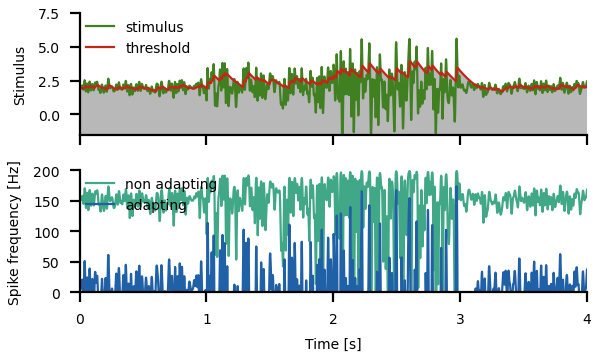
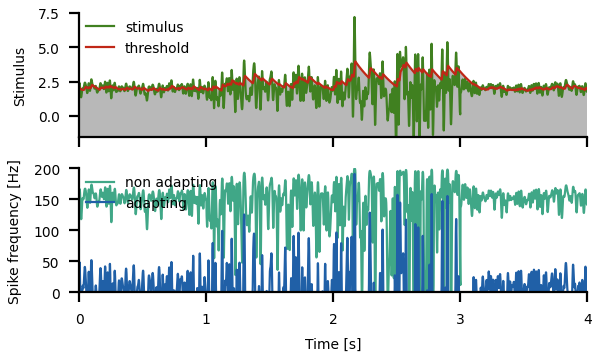
whitenoise() function with non-random amplitude

diff --git a/filter/filter.py b/filter/filter.py
@@ -153,19 +153,20 @@ def whitenoise(cflow, cfup, dt, duration, rng=np.random):
         inx1 = nn/2
     # draw random numbers in Fourier domain:
     whitef = np.zeros((nn//2+1), dtype=complex)
+    # zero and nyquist frequency must be real:
     if inx0 == 0:
-        whitef[0] = rng.randn()
+        whitef[0] = 0
         inx0 = 1
     if inx1 >= nn//2:
-        whitef[nn//2] = rng.randn()
+        whitef[nn//2] = 1
         inx1 = nn//2-1
-    m = inx1 - inx0 + 1
-    whitef[inx0:inx1+1] = rng.randn(m) + 1j*rng.randn(m)
-    # scaling factor to ensure standard deviation of one:
-    sigma = 0.5 / np.sqrt(float(inx1 - inx0))
+    phases = 2*np.pi*rng.rand(inx1 - inx0 + 1)
+    whitef[inx0:inx1+1] = np.cos(phases) + 1j*np.sin(phases)
     # inverse FFT:
-    noise = np.real(np.fft.irfft(whitef))[:n]*sigma*nn
-    return noise
+    noise = np.real(np.fft.irfft(whitef))
+    # scaling factor to ensure standard deviation of one:
+    sigma = nn / np.sqrt(2*float(inx1 - inx0))
+    return noise[:n]*sigma
 
 
 def transfer(stimulus, response, dt, nfft=2**10, maxf=None):

diff --git a/meanvariance/meanvariance.py b/meanvariance/meanvariance.py
@@ -155,19 +155,20 @@ def whitenoise(cflow, cfup, dt, duration, rng=np.random):
         inx1 = nn/2
     # draw random numbers in Fourier domain:
     whitef = np.zeros((nn//2+1), dtype=complex)
+    # zero and nyquist frequency must be real:
     if inx0 == 0:
-        whitef[0] = rng.randn()
+        whitef[0] = 0
         inx0 = 1
     if inx1 >= nn//2:
-        whitef[nn//2] = rng.randn()
+        whitef[nn//2] = 1
         inx1 = nn//2-1
-    m = inx1 - inx0 + 1
-    whitef[inx0:inx1+1] = rng.randn(m) + 1j*rng.randn(m)
-    # scaling factor to ensure standard deviation of one:
-    sigma = 0.5 / np.sqrt(float(inx1 - inx0))
+    phases = 2*np.pi*rng.rand(inx1 - inx0 + 1)
+    whitef[inx0:inx1+1] = np.cos(phases) + 1j*np.sin(phases)
     # inverse FFT:
-    noise = np.real(np.fft.irfft(whitef))[:n]*sigma*nn
-    return noise
+    noise = np.real(np.fft.irfft(whitef))
+    # scaling factor to ensure standard deviation of one:
+    sigma = nn / np.sqrt(2*float(inx1 - inx0))
+    return noise[:n]*sigma
 
 
 def amplitude_modulation(signal, dt, fcutoff):

diff --git a/ambiguities/ambiguities.py b/ambiguities/ambiguities.py
@@ -113,19 +113,20 @@ def whitenoise(cflow, cfup, dt, duration, rng=np.random):
         inx1 = nn/2
     # draw random numbers in Fourier domain:
     whitef = np.zeros((nn//2+1), dtype=complex)
+    # zero and nyquist frequency must be real:
     if inx0 == 0:
-        whitef[0] = rng.randn()
+        whitef[0] = 0
         inx0 = 1
     if inx1 >= nn//2:
-        whitef[nn//2] = rng.randn()
+        whitef[nn//2] = 1
         inx1 = nn//2-1
-    m = inx1 - inx0 + 1
-    whitef[inx0:inx1+1] = rng.randn(m) + 1j*rng.randn(m)
-    # scaling factor to ensure standard deviation of one:
-    sigma = 0.5 / np.sqrt(float(inx1 - inx0))
+    phases = 2*np.pi*rng.rand(inx1 - inx0 + 1)
+    whitef[inx0:inx1+1] = np.cos(phases) + 1j*np.sin(phases)
     # inverse FFT:
-    noise = np.real(np.fft.irfft(whitef))[:n]*sigma*nn
-    return noise
+    noise = np.real(np.fft.irfft(whitef))
+    # scaling factor to ensure standard deviation of one:
+    sigma = nn / np.sqrt(2*float(inx1 - inx0))
+    return noise[:n]*sigma
 
 
 def plot_ambiguities(axr, axs, axd, axa):
